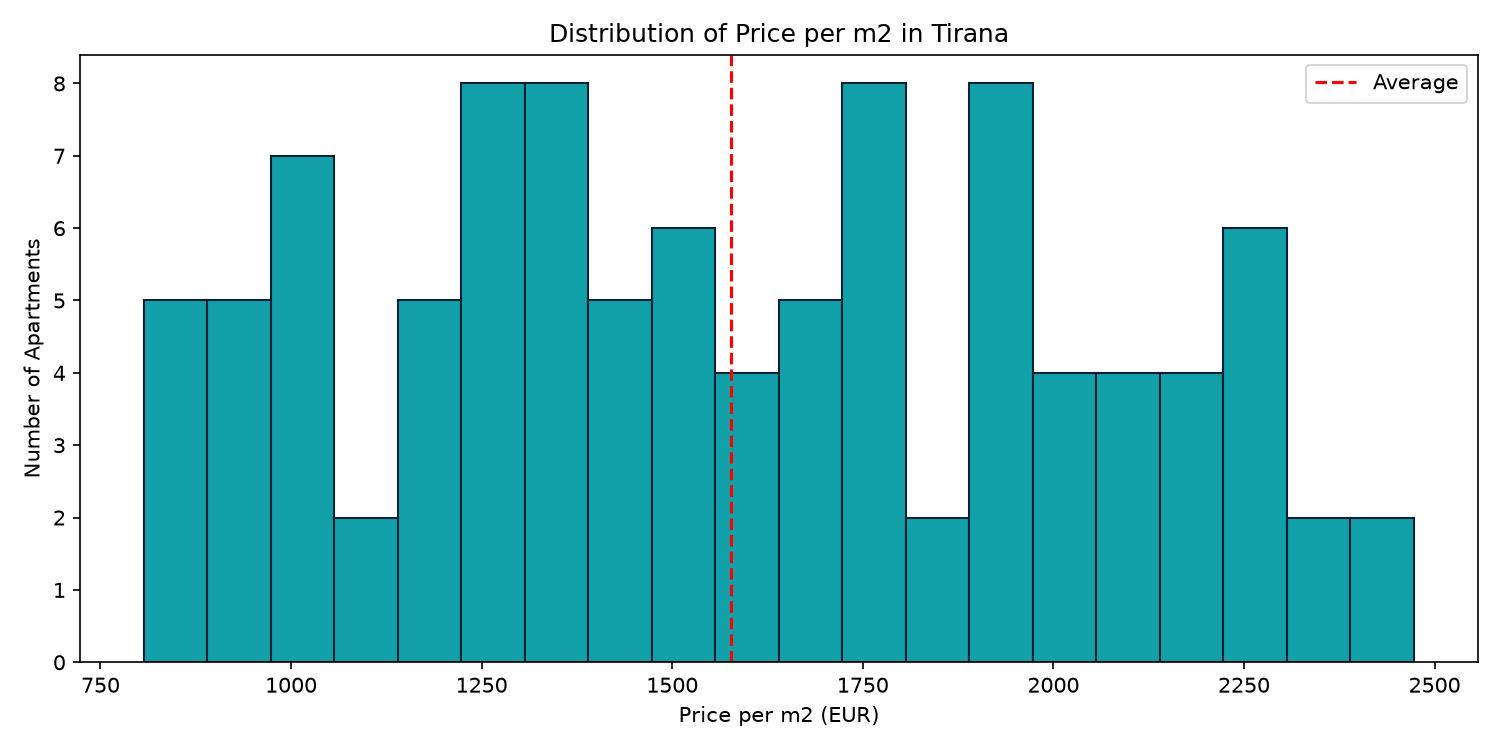
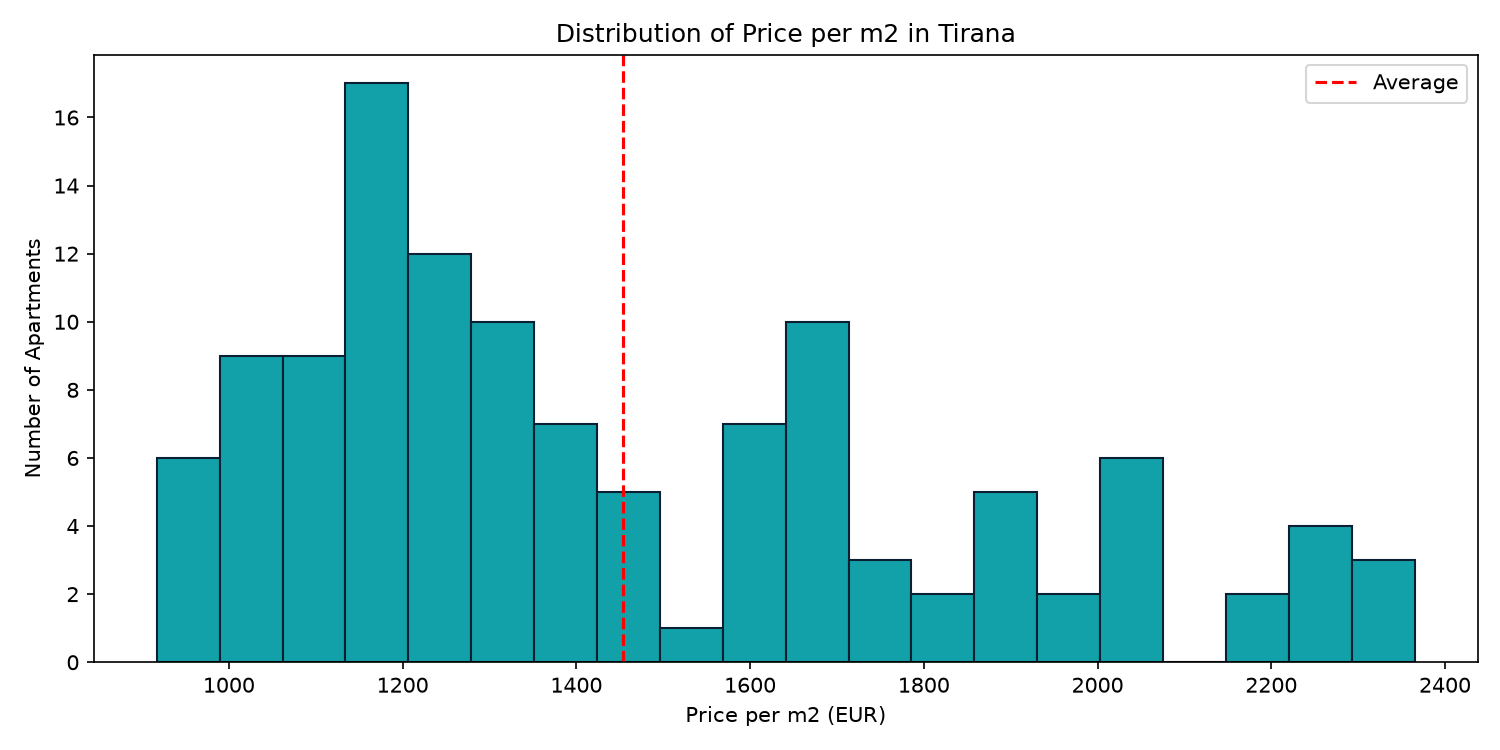
regenerate dataset with bedrooms, bathrooms, floor

diff --git a/scripts/generate_data.py b/scripts/generate_data.py
@@ -3,24 +3,46 @@ import random
 
 random.seed(42)
 
-zones = ["Bllok", "Komuna e Parisit", "Ali Demi", "Astir", "Yzberisht",
-         "21 Dhjetori", "Fresk", "Medreseja", "Selvia", "Kinostudio"]
+# Cdo zone ka nje cmim baze per m2 (Blloku me i shtrenjte)
+zone_base = {
+    "Bllok": 2200,
+    "Komuna e Parisit": 1900,
+    "21 Dhjetori": 1600,
+    "Selvia": 1500,
+    "Ali Demi": 1250,
+    "Medreseja": 1200,
+    "Fresk": 1100,
+    "Kinostudio": 1050,
+    "Astir": 1000,
+    "Yzberisht": 900,
+}
 
-apartments = []
-for _ in range(100):
-    zone = random.choice(zones)
-    rooms = random.randint(1, 4)
-    sqm = random.randint(40, 150)
-    price_per_sqm = random.randint(800, 2500)
-    price = sqm * price_per_sqm
-    apartments.append({
+rows = []
+for _ in range(120):
+    zone = random.choice(list(zone_base.keys()))
+    bedrooms = random.randint(1, 4)
+    sqm = random.randint(35 + bedrooms * 12, 55 + bedrooms * 25)
+    bathrooms = 1 if bedrooms <= 2 else random.choice([1, 2])
+    floor = random.randint(1, 10)
+
+    ppsm = zone_base[zone]
+    ppsm += bathrooms * 40      # banjo shtese rrit vleren
+    ppsm += floor * 8           # kati me i larte pak me i shtrenjte
+    ppsm += random.randint(-120, 120)   # zhurma e tregut
+
+    price = int(round(sqm * ppsm, -2))
+
+    rows.append({
         "zone": zone,
-        "rooms": rooms,
+        "bedrooms": bedrooms,
+        "bathrooms": bathrooms,
+        "floor": floor,
         "sqm": sqm,
         "price": price,
-        "price_per_sqm": price_per_sqm
+        "price_per_sqm": ppsm,
     })
 
-df = pd.DataFrame(apartments)
+df = pd.DataFrame(rows)
 df.to_csv("data/apartments.csv", index=False)
 print(f"Generated {len(df)} apartments -> data/apartments.csv")
+print(df.head().to_string(index=False))

diff --git a/scripts/filter_rooms.py b/scripts/filter_rooms.py
@@ -2,12 +2,12 @@ import pandas as pd
 
 df = pd.read_csv("data/apartments.csv")
 
-rooms = int(input("How many rooms? "))
-filtered = df[df["rooms"] == rooms].sort_values("price_per_sqm")
+bedrooms = int(input("How many bedrooms? "))
+filtered = df[df["bedrooms"] == bedrooms].sort_values("price_per_sqm")
 
-print(f"\n=== {len(filtered)} apartments with {rooms} room(s) ===\n")
+print(f"\n=== {len(filtered)} apartments with {bedrooms} bedroom(s) ===\n")
 for _, row in filtered.iterrows():
     print(f"  {row['zone']:20s} | {row['sqm']}m2 | {row['price']:>10,} EUR | {row['price_per_sqm']:,} EUR/m2")
 
-filtered.to_csv(f"output/apartments_{rooms}rooms.csv", index=False)
-print(f"\nSaved -> output/apartments_{rooms}rooms.csv")
+filtered.to_csv(f"output/apartments_{bedrooms}bedrooms.csv", index=False)
+print(f"\nSaved -> output/apartments_{bedrooms}bedrooms.csv")